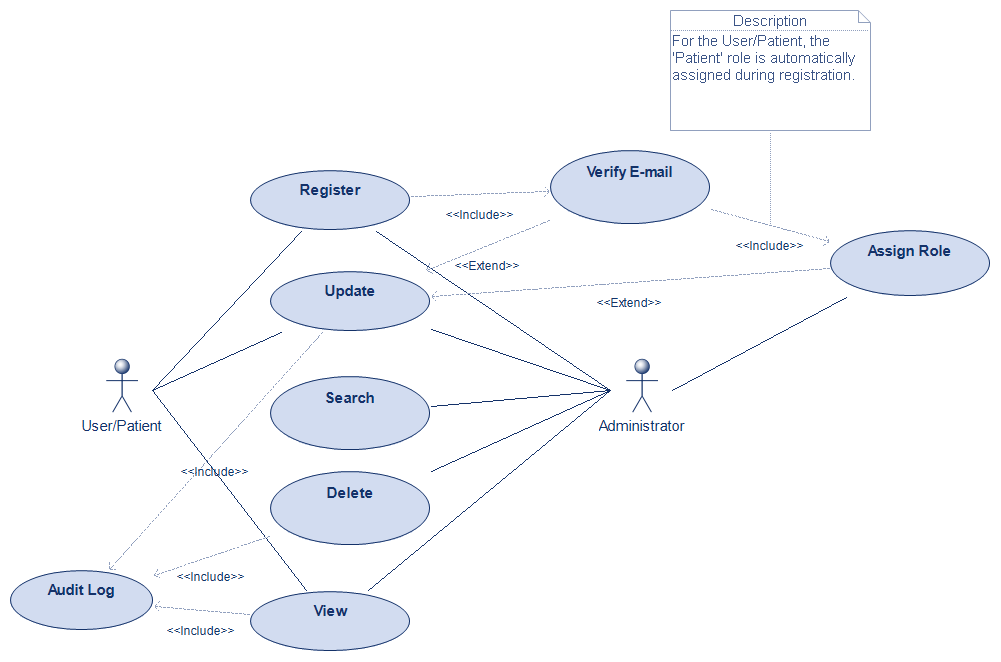
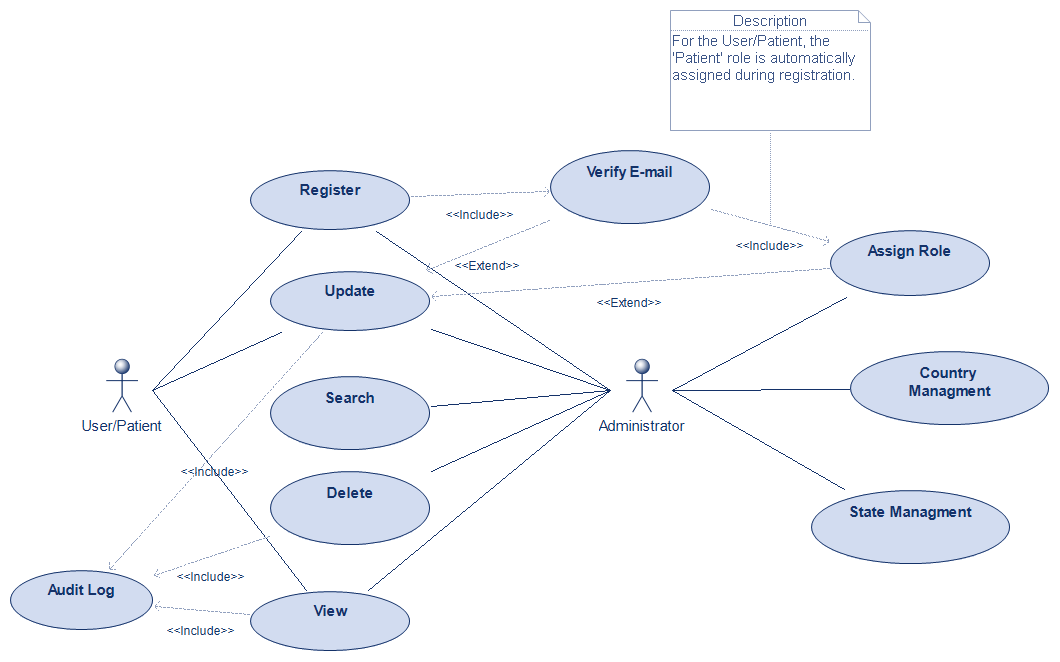
feat(uml): Add Country and State Management use case specifications and update User Management diagram
- Added UC-09 (Country Management) and UC-10 (State Management) specifications
- Updated User Management use case diagram
- Created initial structure for class diagrams

diff --git a/docs/uml/01_use_case_diagrams/01 - User Management/Specifications/UC-10 - State Managment.md b/docs/uml/01_use_case_diagrams/01 - User Management/Specifications/UC-10 - State Managment.md
@@ -1,0 +1,103 @@
+# Use Case Specification: **State Management**  
+
+## 1. Overview  
+
+This document specifies the **"State Management"** use case for the **NextGenHealth** system. The purpose of this use case is to allow administrators to create, update, view, and delete states/regions in the system, ensuring that address management remains consistent and accurate.  
+
+---
+
+## 2. Use Case Details  
+
+### 2.1 Use Case ID  
+**UC-10**: State Management  
+
+### 2.2 Actors  
+- **Primary Actor**: Administrator  
+- **Secondary Actor**: System (responsible for storing and retrieving state data)  
+
+### 2.3 Preconditions  
+- The user must be authenticated and have administrator privileges.  
+- The system must be operational and capable of storing and retrieving state/region information.  
+- A state/region must always be associated with an existing country.  
+
+### 2.4 Postconditions  
+- The system updates the list of states/regions to reflect any changes made by the administrator.  
+- The state/region details are correctly stored, updated, or deleted in the system.  
+
+### 2.5 Trigger  
+- The administrator accesses the state management interface and initiates an action (create, update, or delete a state/region).  
+
+---
+
+## 3. Basic Flow (Main Success Scenario)  
+
+### **Creating a New State/Region:**  
+1. The administrator selects the "Create State" option in the system.  
+2. The administrator enters the necessary information for the new state/region, including:  
+   - State/region name  
+   - State code (optional)  
+   - Associated country  
+3. The system validates the entered data (e.g., checks if the state already exists within the same country).  
+4. The system stores the new state/region details in the database.  
+5. The system confirms the successful creation of the state/region.  
+
+### **Updating an Existing State/Region:**  
+1. The administrator selects the "Update State" option in the system.  
+2. The administrator chooses an existing state/region from the list.  
+3. The administrator modifies the necessary data.  
+4. The system validates the changes to prevent inconsistencies.  
+5. The system updates the state/region information in the database.  
+6. The system confirms the successful update.  
+
+### **Deleting an Existing State/Region:**  
+1. The administrator selects the "Delete State" option in the system.  
+2. The administrator chooses an existing state/region from the list.  
+3. The system checks for dependencies (e.g., addresses registered under this state).  
+4. If there are no dependencies, the system deletes the state/region from the database.  
+5. The system confirms the successful deletion.  
+6. If dependencies exist, the system alerts the administrator and provides options to cancel the deletion or manage the dependent data.  
+
+### **Viewing State/Region Information:**  
+1. The administrator selects the "View State" option in the system.  
+2. The administrator can search for states/regions by name, country, or other identifiers.  
+3. The system retrieves and displays the state/region information.  
+
+---
+
+### Alternative Flow:  
+- If the state/region already exists for the same country during creation, the system displays an error message indicating that the creation cannot proceed.  
+- If the administrator attempts to delete a state/region associated with existing addresses, the system displays a warning and prevents deletion until dependent data is resolved.  
+- If the administrator lacks permission to manage states/regions, the system denies access and displays an error message.  
+
+---
+
+## 4. Special Requirements  
+
+- **Access Control:** Only administrators can manage states/regions.  
+- **Data Validation:** The system must validate duplicate names within the same country and ensure that each state/region is linked to an existing country.  
+- **Error Handling:** The system must provide clear error messages for invalid inputs, action failures (such as database errors), and permission issues.  
+
+---
+
+## 5. Exceptions  
+
+- If the system fails to create, update, or delete a state/region due to a database failure, it should notify the administrator of the error and allow retrying the operation.  
+- If an administrator attempts to delete a state/region linked to existing addresses, the system prevents deletion until the dependent data is resolved.  
+
+---
+
+
+## 6. Assumptions  
+
+- The administrator has the proper training and permissions to manage states/regions.  
+- The system has a database capable of storing state/region information.  
+- States/regions are always linked to a valid, existing country in the system.  
+
+---
+
+## 7. Notes  
+
+- The system should allow efficient searching of states/regions, with filtering options by country and name.  
+- State/region data should be stored with backup and recovery mechanisms to prevent data loss.  
+- States/regions may be used in multiple system functionalities, such as address management and patient location.  
+

diff --git a/docs/uml/01_use_case_diagrams/01 - User Management/Specifications/UC-09 - Country Managment.md b/docs/uml/01_use_case_diagrams/01 - User Management/Specifications/UC-09 - Country Managment.md
@@ -1,0 +1,99 @@
+# Use Case Specification: **Country Management**  
+
+## 1. Overview  
+
+This document specifies the **"Country Management"** use case for the **NextGenHealth** system. The purpose of this use case is to allow administrators to create, update, view, and delete countries in the system, ensuring the system maintains a consistent list of countries for address management and other relevant processes.  
+
+---
+
+## 2. Use Case Details  
+
+### 2.1 Use Case ID  
+**UC-09**: Country Management  
+
+### 2.2 Actors  
+- **Primary Actor**: Administrator  
+- **Secondary Actor**: System (performs actions on data storage and retrieval)  
+
+### 2.3 Preconditions  
+- The user must be authenticated and have administrator privileges.  
+- The system must be operational and capable of storing and retrieving country data.  
+- Countries should be managed by administrators only, ensuring data consistency.  
+
+### 2.4 Postconditions  
+- The system updates the country list to reflect any changes made by the administrator.  
+- The country details are successfully stored, updated, or deleted in the system.  
+
+### 2.5 Trigger  
+- The administrator accesses the country management interface in the system and initiates a country-related action (create, update, or delete).  
+
+---
+
+## 3. Basic Flow (Main Success Scenario)  
+
+### **Creating a New Country:**  
+1. The administrator selects the "Create Country" option in the system.  
+2. The administrator enters the necessary information for the new country (e.g., country name, code).  
+3. The system validates the input (e.g., checks if the country already exists).  
+4. The system stores the new country details in the database.  
+5. The system confirms the creation of the new country.  
+
+### **Updating an Existing Country:**  
+1. The administrator selects the "Update Country" option in the system.  
+2. The administrator selects a country from the list of existing countries.  
+3. The administrator makes necessary changes to the country details.  
+4. The system validates the changes (e.g., checks for duplicates or invalid data).  
+5. The system updates the country information in the database.  
+6. The system confirms the successful update.  
+
+### **Deleting an Existing Country:**  
+1. The administrator selects the "Delete Country" option in the system.  
+2. The administrator selects a country from the list of existing countries.  
+3. The system checks if the country has any dependent data (e.g., addresses).  
+4. If no dependent data exists, the system deletes the country from the database.  
+5. The system confirms the successful deletion of the country.  
+6. If dependent data exists, the system prompts the administrator to confirm or cancel the deletion.  
+
+### **Viewing Country Information:**  
+1. The administrator selects the "View Country" option in the system.  
+2. The administrator searches for a country by name or other identifiers.  
+3. The system retrieves and displays the country information.  
+
+---
+
+### Alternative Flow:  
+- If the country already exists during the creation process, the system displays an error message indicating that the country cannot be created.  
+- If the administrator attempts to delete a country with dependent data (e.g., addresses), the system prompts the administrator with a warning message and offers an option to cancel the operation.  
+- If the administrator does not have sufficient permissions to access the country management interface, the system denies access and displays an error message.  
+
+---
+
+## 4. Special Requirements  
+
+- **Access Control:** Only administrators can manage countries.  
+- **Data Validation:** The system must validate country data for correctness and ensure there are no duplicates when adding new countries.  
+- **Error Handling:** The system should provide clear error messages for invalid input, failed actions (e.g., database failure), and permission issues.  
+
+---
+
+## 5. Exceptions  
+
+- If the system is unable to create, update, or delete a country due to a database failure, the system will notify the administrator of the failure and may retry the operation.  
+- If the administrator attempts to delete a country with associated addresses or other related data, the system will alert the administrator and prevent the deletion unless the dependent data is handled.  
+
+---
+
+
+## 6. Assumptions  
+
+- The administrator is trained and has the appropriate permissions to manage countries.  
+- The system has a valid country list to begin with and can store country data efficiently.  
+- The system is designed to handle countries and their relationships with other entities like address data.  
+
+---
+
+## 7. Notes  
+
+- The system should allow for easy searching and filtering of countries when managing the list.  
+- The country data should be stored securely, with backup and recovery procedures in place to ensure no loss of critical information.  
+
